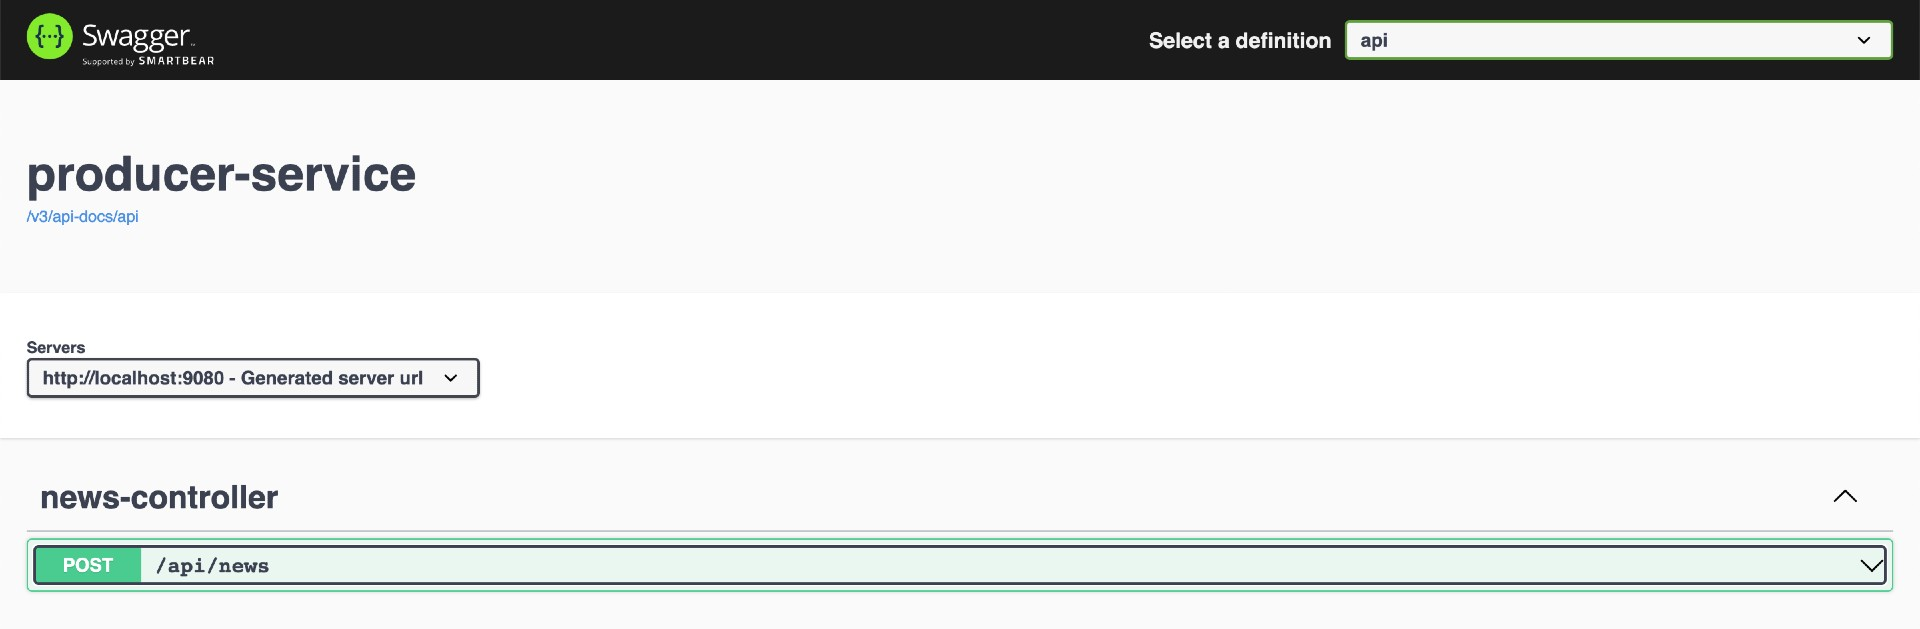
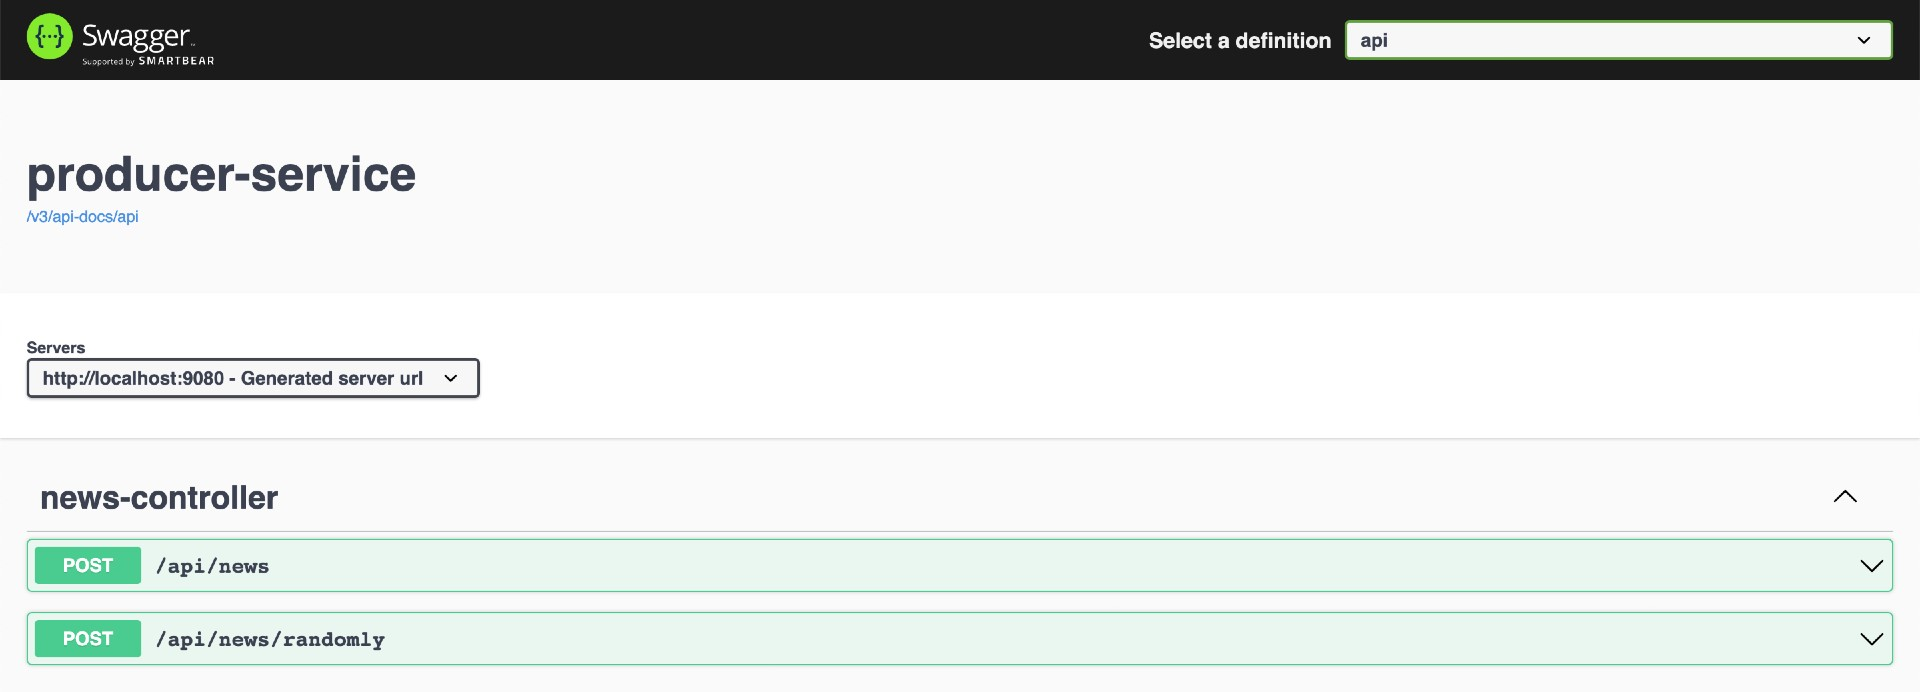
project update - create UI using Thymeleaf and Websocket to consumer-service; - add field publishedAt to News event; - create endpoint in producer-service to create news randomly.

diff --git a/consumer-service/src/main/resources/static/app.js b/consumer-service/src/main/resources/static/app.js
@@ -1,0 +1,46 @@
+let stompClient = null
+
+function connectToWebSocket() {
+    const socket = new SockJS('/news-websocket')
+    stompClient = Stomp.over(socket)
+
+    stompClient.connect({},
+        function (frame) {
+            console.log('Connected: ' + frame)
+            $('.connWebSocket').find('i').removeClass('red').addClass('green')
+
+            stompClient.subscribe('/topic/news', function (news) {
+                const newsBody = JSON.parse(news.body)
+                const newsItem = '<div class="item">' +
+                                   '<div class="content">' +
+                                     '<div class="meta">' +
+                                       '<span>'+moment(newsBody.publishedAt).format("DD-MMM-YYYY HH:mm:ss")+'</span>' +
+                                     '</div>' +
+                                     '<div class="ui divider"></div>' +
+                                     '<div class="ui big header">'+newsBody.title+'</div>' +
+                                   '</div>' +
+                                 '</div>'
+
+                $('#newsList').prepend(newsItem)
+            })
+        },
+        function() {
+            showModal($('.modal.alert'), 'WebSocket Disconnected', 'WebSocket is disconnected. Maybe, customer-service is down or restarting')
+            $('.connWebSocket').find('i').removeClass('green').addClass('red')
+        }
+     )
+}
+
+function showModal($modal, header, description, fnApprove) {
+    $modal.find('.header').text(header)
+    $modal.find('.content').text(description)
+    $modal.modal('show')
+}
+
+$(function () {
+    connectToWebSocket()
+
+    $('.connWebSocket').click(function() {
+        connectToWebSocket()
+    })
+})

diff --git a/consumer-service/src/main/resources/templates/news.html b/consumer-service/src/main/resources/templates/news.html
@@ -1,0 +1,48 @@
+<!DOCTYPE html>
+<html lang="en" xmlns:th="http://www.thymeleaf.org">
+<head>
+    <meta charset="UTF-8">
+    <title>News-Client</title>
+    <link rel="stylesheet" href="https://cdnjs.cloudflare.com/ajax/libs/semantic-ui/2.4.1/semantic.min.css">
+</head>
+
+<body>
+
+<main>
+    <header>
+        <nav>
+            <div class="ui stackable large menu">
+                <a th:href="@{/}" class="header item">Consumer-Service</a>
+                <div class="right menu">
+                    <a class="connWebSocket ui item"><i class="circle green icon"></i>WebSocket</a>
+                </div>
+            </div>
+        </nav>
+    </header>
+
+    <div class="ui container">
+        <div class="ui teal segment" style="margin-top:10px">
+            <div id="newsList" class="ui unstackable divided items">
+            </div>
+        </div>
+    </div>
+
+    <!-- Alert Modal -->
+    <div class="ui tiny modal alert">
+        <div class="header"></div>
+        <div class="content"></div>
+        <div class="actions">
+            <div class="ui positive button">Ok</div>
+        </div>
+    </div>
+</main>
+
+<script src="https://cdnjs.cloudflare.com/ajax/libs/jquery/3.6.0/jquery.min.js"></script>
+<script src="https://cdnjs.cloudflare.com/ajax/libs/sockjs-client/1.6.1/sockjs.min.js"></script>
+<script src="https://cdnjs.cloudflare.com/ajax/libs/stomp.js/2.3.3/stomp.min.js"></script>
+<script src="https://cdnjs.cloudflare.com/ajax/libs/moment.js/2.29.3/moment.min.js"></script>
+<script src="https://cdnjs.cloudflare.com/ajax/libs/semantic-ui/2.4.1/semantic.min.js"></script>
+<script src="/app.js"></script>
+
+</body>
+</html>

diff --git a/producer-service/src/main/java/com/mycompany/producerservice/service/RandomNewsGenerator.java b/producer-service/src/main/java/com/mycompany/producerservice/service/RandomNewsGenerator.java
@@ -1,0 +1,64 @@
+package com.mycompany.producerservice.service;
+
+import com.mycompany.producerservice.event.News;
+import org.springframework.stereotype.Component;
+
+import java.security.SecureRandom;
+import java.time.ZonedDateTime;
+import java.util.List;
+import java.util.Random;
+import java.util.UUID;
+
+@Component
+public class RandomNewsGenerator {
+
+    public News getRandomly() {
+        return new News(UUID.randomUUID().toString(), TITLES.get(random.nextInt(TITLES.size())), ZonedDateTime.now());
+    }
+
+    private final Random random = new SecureRandom();
+
+    private final static List<String> TITLES = List.of(
+            "The life puzzle: The location of land on a planet can affect its habitability",
+            "The solar system could collapse because of a passing star, scientists predict",
+            "Space Glaciers: Carbon Dioxide Ice Forms Glaciers on Mars",
+            "Kathryn Brown Joins Pernod Ricard USA to Lead Content Strategy and Activations for In House Creative Agency, The Mix",
+            "How to Lose a Billion Dollars in the Metaverse and Other Mysteries of Web3",
+            "Fresh Prep, LLC Debuts Fair Earth Farms, a Compostable, Sustainable New Line of Organic Salad Kits and Salad Blends with Exceptional Quality and Freshness",
+            "India is about to surpass China as world’s most populous country, UN report finds",
+            "The Number Ones: Jennifer Lopez’s “If You Had My Love”",
+            "Webb Space Telescope: NASA reveals the list of its first 'cosmic targets'",
+            "Amazon SodaStream deals go live with retro-style Art model at new $84.50 low (Up to 30% off)",
+            "Being Salt of the Earth… And the Plight of Children of the World. Prof. Siegwart-Horst Günther",
+            "As Twitter Shares Drop 5.3% in Premarket Trading, Wedbush Securities Analyst Says the Company is ‘in a Code Red Situation’",
+            "CrossTower Partners with Ripple to support NFTs minted on the XRP Ledger",
+            "India to surpass China as most populous country in 2023, UN report says",
+            "CrossTower Partners with Ripple to support NFTs minted on the XRP Ledger",
+            "Here's Everything Coming to Netflix the Week of July 11, 2022",
+            "New Theory Offers Better Insight Into Earth's Formation",
+            "Is Sentient AI Upon Us?",
+            "Spooky Blue Remains Of An Ancient Cosmic Explosion Captured By NASA In New Image",
+            "Il travel retail in ripresa fa i conti con il caos voli e i costi più alti",
+            "NASA reveals the winning shots from its Photographer of the Year awards",
+            "EPA needs a Senate-confirmed enforcement chief, groups say",
+            "Market value alone is selling nature short, governments told - Reuters",
+            "World View Assembles Space Flight Safety Experts from NASA, Virgin Galactic, and Blue Origin to Establish Safety Program and Technical Oversight Committee",
+            "India to surpass China as most populous country in 2023: UN report",
+            "Focus on short-term profits fuelling global biodiversity crisis, says UN report",
+            "India to surpass China as most populous country in 2023: UN report",
+            "NASA: A look at the new space telescope that should be sending images to Earth soon",
+            "Somalia: Drought, Environmental Degradation, and Illusive Development",
+            "Humans need to value nature as well as profits to survive, UN report finds",
+            "Five signs that new pandemic consumer trends are sticking around",
+            "How Climate Change Is Affecting Soil Microbiomes",
+            "North Highland Goes North With Second UK Office Location",
+            "Raver hinterlassen 135 Kubikmeter Müll für Berliner Stadtreinigung",
+            "CPower to Acquire Centrica's US Demand Response Business - PR Newswire",
+            "Has The Marketing Industry Really Gone Too Far With Social Purpose? - The Drum",
+            "World population to hit 8 billion this year...",
+            "The Pace of the Transition to an Environmentally Sustainable Economy",
+            "India to surpass China as most populous country in 2023 -UN report",
+            "Meghan McCain Takes Swipe At Elon Musk And Nick Cannon Exchange And Their ‘Creepy’ ‘Impregnate The Planet’ Mentality",
+            "Marvel Confirms Scarlet Witch Was Supposed to Be the Next Thanos, Describes Her as “Best Villain Ever”"
+    );
+}

diff --git a/producer-service/src/main/java/com/mycompany/producerservice/rest/NewsController.java b/producer-service/src/main/java/com/mycompany/producerservice/rest/NewsController.java
@@ -3,6 +3,7 @@ package com.mycompany.producerservice.rest;
 import com.mycompany.producerservice.event.News;
 import com.mycompany.producerservice.publisher.NewsPublisher;
 import com.mycompany.producerservice.rest.dto.CreateNewsRequest;
+import com.mycompany.producerservice.service.RandomNewsGenerator;
 import lombok.RequiredArgsConstructor;
 import org.springframework.web.bind.annotation.PostMapping;
 import org.springframework.web.bind.annotation.RequestBody;
@@ -10,6 +11,7 @@ import org.springframework.web.bind.annotation.RequestMapping;
 import org.springframework.web.bind.annotation.RestController;
 
 import javax.validation.Valid;
+import java.time.ZonedDateTime;
 import java.util.UUID;
 
 @RequiredArgsConstructor
@@ -18,10 +20,18 @@ import java.util.UUID;
 public class NewsController {
 
     private final NewsPublisher newsPublisher;
+    private final RandomNewsGenerator randomNewsGenerator;
 
     @PostMapping
     public News publishNews(@Valid @RequestBody CreateNewsRequest request) {
-        News news = new News(UUID.randomUUID().toString(), request.getTitle());
+        News news = new News(UUID.randomUUID().toString(), request.getTitle(), ZonedDateTime.now());
+        newsPublisher.publish(news);
+        return news;
+    }
+
+    @PostMapping("/randomly")
+    public News publishRandomNews() {
+        News news = randomNewsGenerator.getRandomly();
         newsPublisher.publish(news);
         return news;
     }

diff --git a/consumer-service/src/main/java/com/mycompany/consumerservice/consumer/NewsConsumer.java b/consumer-service/src/main/java/com/mycompany/consumerservice/consumer/NewsConsumer.java
@@ -1,8 +1,10 @@
 package com.mycompany.consumerservice.consumer;
 
+import com.mycompany.consumerservice.mapper.NewsMapper;
 import com.mycompany.consumerservice.property.AwsProperties;
 import lombok.RequiredArgsConstructor;
 import lombok.extern.slf4j.Slf4j;
+import org.springframework.messaging.simp.SimpMessagingTemplate;
 import org.springframework.scheduling.annotation.Scheduled;
 import org.springframework.stereotype.Component;
 import software.amazon.awssdk.services.sqs.SqsAsyncClient;
@@ -16,6 +18,9 @@ public class NewsConsumer {
 
     private final SqsAsyncClient sqsAsyncClient;
     private final AwsProperties awsProperties;
+    private final SimpMessagingTemplate simpMessagingTemplate;
+    private final NewsMapper newsMapper;
+
 
     @Scheduled(fixedRate = 5000)
     public void scheduledConsumer() {
@@ -28,6 +33,8 @@ public class NewsConsumer {
                 .messages()
                 .forEach(message -> {
                     log.info("Received message: {}", message);
+
+                    simpMessagingTemplate.convertAndSend("/topic/news", newsMapper.toNews(message));
 
                     DeleteMessageRequest deleteMessageRequest = DeleteMessageRequest.builder()
                             .queueUrl(awsProperties.getSqs().getQueueUrl())

diff --git a/consumer-service/src/main/java/com/mycompany/consumerservice/mapper/NewsMapper.java b/consumer-service/src/main/java/com/mycompany/consumerservice/mapper/NewsMapper.java
@@ -1,0 +1,33 @@
+package com.mycompany.consumerservice.mapper;
+
+import com.fasterxml.jackson.annotation.JsonProperty;
+import com.fasterxml.jackson.core.JsonProcessingException;
+import com.fasterxml.jackson.databind.ObjectMapper;
+import com.mycompany.consumerservice.domain.News;
+import lombok.Data;
+import lombok.RequiredArgsConstructor;
+import org.springframework.stereotype.Component;
+import software.amazon.awssdk.services.sqs.model.Message;
+
+@RequiredArgsConstructor
+@Component
+public class NewsMapper {
+
+    private final ObjectMapper objectMapper;
+
+    public News toNews(Message message) {
+        try {
+            MessageBody messageBody = objectMapper.readValue(message.body(), MessageBody.class);
+            return objectMapper.readValue(messageBody.getMessage(), News.class);
+        } catch (JsonProcessingException e) {
+            throw new RuntimeException(e);
+        }
+    }
+
+    @Data
+    private static class MessageBody {
+
+        @JsonProperty("Message")
+        private String message;
+    }
+}

diff --git a/consumer-service/src/main/java/com/mycompany/consumerservice/config/WebSocketConfig.java b/consumer-service/src/main/java/com/mycompany/consumerservice/config/WebSocketConfig.java
@@ -1,0 +1,23 @@
+package com.mycompany.consumerservice.config;
+
+import org.springframework.context.annotation.Configuration;
+import org.springframework.messaging.simp.config.MessageBrokerRegistry;
+import org.springframework.web.socket.config.annotation.EnableWebSocketMessageBroker;
+import org.springframework.web.socket.config.annotation.StompEndpointRegistry;
+import org.springframework.web.socket.config.annotation.WebSocketMessageBrokerConfigurer;
+
+@Configuration
+@EnableWebSocketMessageBroker
+public class WebSocketConfig implements WebSocketMessageBrokerConfigurer {
+
+    @Override
+    public void registerStompEndpoints(StompEndpointRegistry registry) {
+        registry.addEndpoint("/news-websocket").withSockJS();
+    }
+
+    @Override
+    public void configureMessageBroker(MessageBrokerRegistry registry) {
+        registry.setApplicationDestinationPrefixes("/app");
+        registry.enableSimpleBroker("/topic");
+    }
+}

diff --git a/consumer-service/src/main/java/com/mycompany/consumerservice/controller/NewsController.java b/consumer-service/src/main/java/com/mycompany/consumerservice/controller/NewsController.java
@@ -1,0 +1,17 @@
+package com.mycompany.consumerservice.controller;
+
+import lombok.RequiredArgsConstructor;
+import lombok.extern.slf4j.Slf4j;
+import org.springframework.stereotype.Controller;
+import org.springframework.web.bind.annotation.GetMapping;
+
+@Slf4j
+@RequiredArgsConstructor
+@Controller
+public class NewsController {
+
+    @GetMapping(value = {"/", "/news"})
+    public String getNews() {
+        return "news";
+    }
+}

diff --git a/producer-service/src/main/java/com/mycompany/producerservice/rest/dto/CreateNewsRequest.java b/producer-service/src/main/java/com/mycompany/producerservice/rest/dto/CreateNewsRequest.java
@@ -9,6 +9,6 @@ import javax.validation.constraints.NotBlank;
 public class CreateNewsRequest {
 
     @NotBlank
-    @Schema(example = "Brazil's Palmeiras win title for second year")
+    @Schema(example = "Copa Libertadores: Brazil's Palmeiras win title for second year")
     private String title;
 }

diff --git a/consumer-service/src/main/java/com/mycompany/consumerservice/domain/News.java b/consumer-service/src/main/java/com/mycompany/consumerservice/domain/News.java
@@ -1,0 +1,13 @@
+package com.mycompany.consumerservice.domain;
+
+import lombok.Data;
+
+import java.time.ZonedDateTime;
+
+@Data
+public class News {
+
+    private String id;
+    private String title;
+    private ZonedDateTime publishedAt;
+}

diff --git a/producer-service/src/main/java/com/mycompany/producerservice/event/News.java b/producer-service/src/main/java/com/mycompany/producerservice/event/News.java
@@ -2,9 +2,12 @@ package com.mycompany.producerservice.event;
 
 import lombok.Value;
 
+import java.time.ZonedDateTime;
+
 @Value
 public class News {
 
     String id;
     String title;
+    ZonedDateTime publishedAt;
 }

diff --git a/README.md b/README.md
@@ -91,11 +91,12 @@ In this project, we are going to use [`LocalStack`](https://localstack.cloud/) t
 
 ## Application URL
 
-| Application        | Type       | URL                                         | Screenshot                                              |
-|--------------------|------------|---------------------------------------------|---------------------------------------------------------|
-| `producer-service` | Swagger    | http://localhost:9080/swagger-ui/index.html | ![swagger](documentation/producer-service-swagger.jpeg) |
+| Application        | Type    | URL                                         | Screenshot                                              |
+|--------------------|---------|---------------------------------------------|---------------------------------------------------------|
+| `producer-service` | Swagger | http://localhost:9080/swagger-ui/index.html | ![swagger](documentation/producer-service-swagger.jpeg) |
+| `consumer-service` | UI      | http://localhost:9081/                      | ![swagger](documentation/consumer-service-ui.jpeg)      |
 
-## Publishing a news
+## Publishing news
 
 - In a terminal, run the following command
   ```
@@ -103,8 +104,13 @@ In this project, we are going to use [`LocalStack`](https://localstack.cloud/) t
     -H 'Content-Type: application/json' \
     -d '{"title": "Palmeiras is three-time champion of the Copa Libertadores da América"}'
   ```
+  
+  or randomly
+  ```
+  curl -i -X POST http://localhost:9080/api/news/randomly
+  ```
 
-- Check `consumer-service` logs
+- Check `consumer-service` UI or logs
 
 ## Shutdown
 
